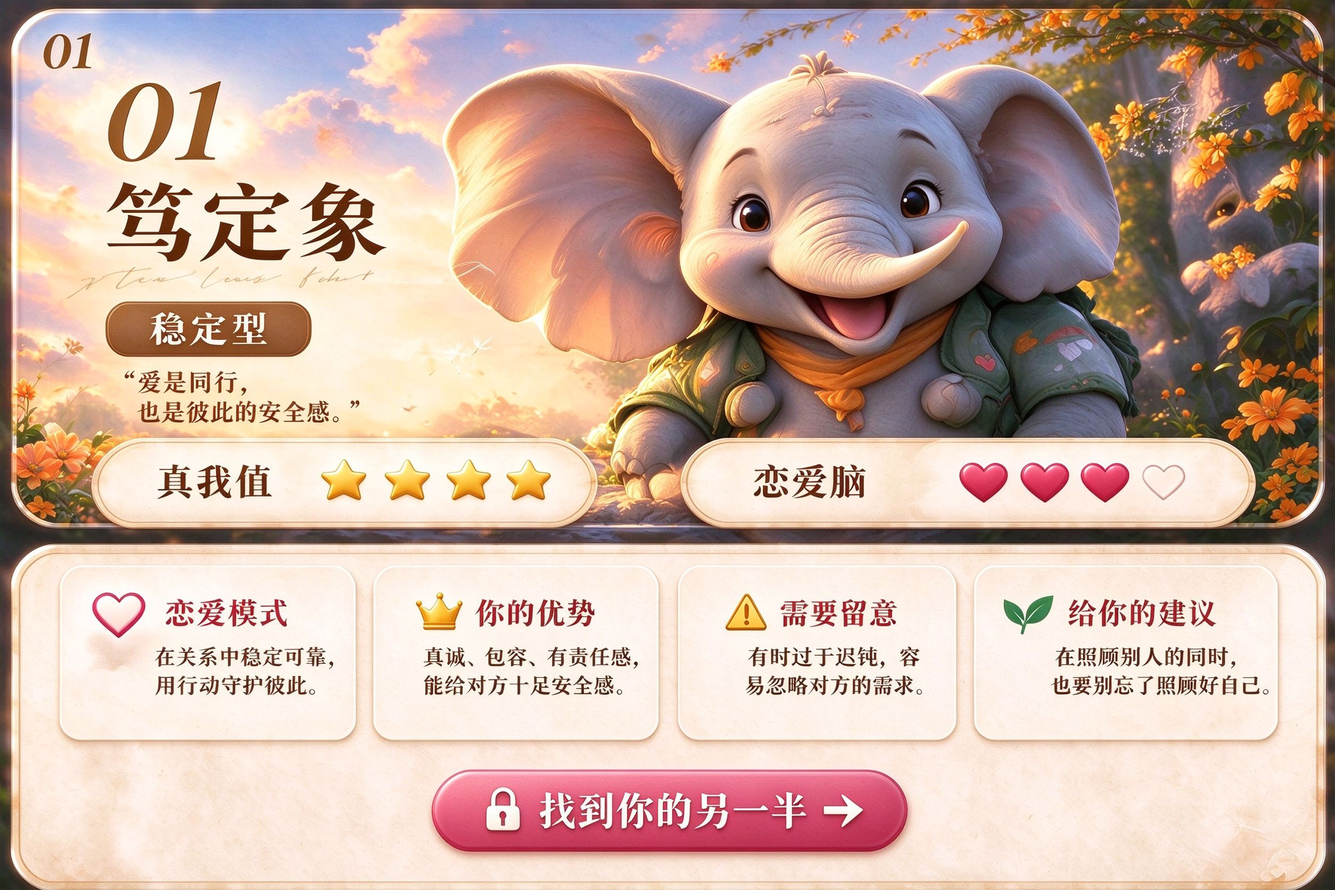
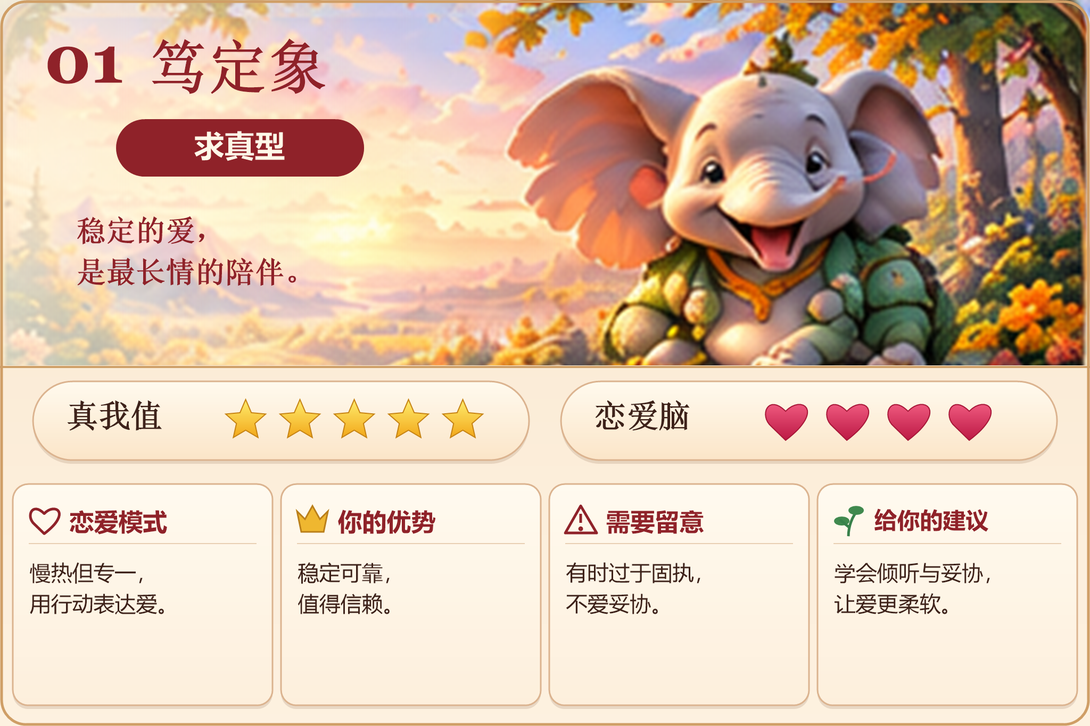
feat(results): update sixteen portrait cards and matching copy

diff --git a/apps/web/src/features/results/portraits.ts b/apps/web/src/features/results/portraits.ts
@@ -1,24 +1,24 @@
-// Supplied content only; no scoring or personality assignment.
+// User-approved portrait cards. Asset slugs are retained for URL compatibility.
+// No scoring or personality assignment is performed here.
 const rows = [
-['elephant','笃定象','稳定型','爱是同行，也是彼此的安全感。','在关系中稳定可靠，用行动守护彼此。','真诚、包容、有责任感，能给对方十足安全感。','有时过于迟钝，容易忽略对方的需求。','在照顾别人的同时，也要别忘了照顾好自己。'],
-['whale','自由鲸','独立型','爱是并肩，也是各自的辽阔。','在关系中保持独立，享受彼此的自由与空间。','随和、独立、有自我，能给关系带来新鲜感。','有时略显疏离，容易让对方感到不安。','在保持自我的同时，也要更贴近彼此。'],
-['dolphin','迎合豚','讨好型','爱是被爱，被爱，也是被懂得。','在关系中积极付出，渴望被需要和认可。','温柔、体贴、善解人意，能很好地照顾对方情绪。','容易过度迎合，忽略自己的感受。','学会表达真实的想法，让爱更平衡。'],
-['tiger','威心虎','掌控型','爱是吸引，也是彼此的欣赏。','在关系中主动引导，希望掌握节奏和方向。','自信、果断、有魅力，能给关系带来激情。','有时过于强势，容易让对方感到压力。','学会倾听与尊重，让爱更轻松自在。'],
-['dog','暖心狗','忠诚型','越在意，越想靠近。','容易关注对方的情绪和反馈，希望关系保持稳定温暖。','真诚、主动、有安全感，愿意用温暖照顾身边的人。','有时会因为过度在意，而忽略自己的感受。','在关心对方的同时，也别忘了照顾好自己的情绪节奏。'],
-['eagle','翱翔鹰','回避型','爱是距离，也是各自的天空。','在关系中保持距离，享受独立的空间。','理性、独立、有主见，能给关系带来清晰感。','有时略显疏离，容易让对方感到不安。','尝试多分享内心感受，让爱更靠近。'],
-['cat','粘你猫','讨好型','爱是依偎，也是细水长流。','在关系中渴望陪伴，享受亲密和被关注的感觉。','温柔、细腻、善于表达情感，能让关系充满温度。','有时过于依赖，容易让对方感到压力。','保持自我空间，让爱更松弛长久。'],
-['bird','藏忧鸟','敏感型','看似平静，内心却常常起风。','在关系中敏感细腻，容易感受到对方的情绪。','温柔、细腻、善于察觉，能敏锐感知对方的需要。','容易多想，让爱更容易陷入情绪波动。','学会信任与放松，让爱更坚定。'],
-['fox','热恋狐','浪漫型','爱是热烈，也是聪明的距离。','在关系中热情主动，享受心动和新鲜感。','热情、真诚、有魅力，能带来充满活力的恋爱体验。','有时害怕冲突，忽冷忽热的做法。','在表达热烈的同时，也让关系走向长久。'],
-['rabbit','慢热兔','温和型','慢慢靠近，才见真心的温度。','在关系中慢慢推进，需要时间建立信任。','真诚、细腻、重视承诺，能给关系稳稳的安全感。','有时过于慢热，容易错过一些可能性。','尝试放下过度的防备，给彼此更多机会。'],
-['deer','守护鹿','付出型','在关系中，带来平静与治愈。','在关系中照顾付出，关注对方的感受和成长。','善良、温柔、有耐心，能给予对方稳定的支持。','容易过度付出，忽略自己的需求。','在照顾别人的同时，也要照顾好自己。'],
-['koala','治愈考拉','温柔型','在关系中带来治愈和安稳。','在关系中温柔体贴，善于倾听和陪伴。','温和、包容、善解人意，能给予对方疗愈感。','有时过于忍让，容易委屈自己的感受。','适时表达自己的想法，让爱更平衡。'],
-['panda','探索熊猫','好奇型','好奇世界，也好奇你。','在关系中乐于探索，喜欢新鲜有趣的体验。','乐观、开朗、有创意，能让关系充满乐趣。','有时容易分心，新鲜感过去就冷淡。','在追求新鲜感的同时，也培养长期的陪伴感。'],
-['penguin','纯真企鹅','单纯型','简单的喜欢，也能很长久。','在关系中真诚直接，用行动表达爱意。','单纯、真诚、有担当，能给予对方安心的承诺。','有时过于理想化，容易被现实打磨。','保持纯真的同时，也学会处理复杂的问题。'],
-['ideal-deer','理想鹿','浪漫型','爱是心中充满浪漫想象，追求理想的灵魂伴侣。','在关系中充满浪漫想象，追求理想的灵魂伴侣。','浪漫、理想、有艺术感，能给关系带来诗意。','有时过于理想化，容易对现实失望。','在追求理想的同时，也接受对方的不完美。'],
-['hedgehog','坚韧刺猬','防御型','看似刺猬，其实很温柔。','在关系中保持警惕，需要时间卸下防备。','独立、坚强、有原则，能在关系中保护自己。','有时过于防备，容易推开真正关心你的人。','试着放下防备，让对的人走进来。'],
+["elephant","笃定象","求真型","稳定的爱，是最长情的陪伴。","慢热但专一，用行动表达爱。","稳定可靠，值得信赖。","有时过于固执，不爱妥协。","学会倾听与妥协，让爱更柔软。"],
+["whale","自由鲸","自在型","爱是辽阔的海，自由也能并肩同行。","享受独立，也珍惜真诚的陪伴。","开朗包容，给予彼此空间。","有时过于理性，容易忽略对方感受。","在自由中建立承诺，让爱更长久。"],
+["dolphin","迎合豚","讨好型","愿意为爱跳近，也希望被温柔回应。","容易照顾对方情绪，愿意为爱付出。","温柔体贴，善解人意。","有时过于迎合，忽略自己的需求。","在爱别人的同时，也别忘了爱自己。"],
+["tiger","藏心虎","隐匿型","心有万般柔软，只愿给对的人。","外表冷静，内心热烈，爱得深沉而谨慎。","忠诚专一，保护欲强。","有时过于防备，不易表达真实想法。","尝试敞开心扉，让对方走进你的世界。"],
+["dog","暖心狗","求真型","越在意，越想靠近。","容易关注对方的情绪和反馈，希望关系保持稳定温暖。","真诚、主动，愿意用温暖照顾身边的人。","有时会因为过度在意，而忽略自己的感受。","在关心对方的同时，也别忘了照顾自己的情绪节奏。"],
+["eagle","翱翔鹰","自在型","爱是并肩飞翔，而不是束缚翅膀。","渴望热烈的爱，也需要独立的空间。","勇敢果断，有追求和行动力。","有时过于自我，忽略细腻的情感需求。","在追求理想的同时，多照顾对方的感受。"],
+["cat","粘你猫","讨好型","想一直靠近你，做你的小黏糊。","容易亲密和依靠，爱是依偎的方式。","温柔细腻，善于表达爱意。","有时过度依赖，容易缺乏安全感。","建立自信，学会独立与信任。"],
+["bird","藏忧鸟","隐匿型","把心事藏在羽翼下，也依然向往阳光。","内心敏感，但不轻易表露，爱得小心而深沉。","温柔体贴，善于观察和理解。","容易胡思乱想，有时会逃避沟通。","学会表达真实感受，让爱更坦诚。"],
+["fox","苦行狼","求真型","爱得克制，也依然真诚。","保持距离，但一旦认定，便会坚定守护。","独立坚韧，有责任感。","容易过于理性，显得冷淡。","尝试多表达情感，让对方感受到你的在意。"],
+["rabbit","逍遥狮","自在型","爱是并肩看世界，但我也有自己的光。","享受自由，更珍惜高质量的相处空间。","自信从容，有领导力和魅力。","有时过于自我，容易忽略他人情绪。","在保留自我的同时，多一些耐心和倾听。"],
+["deer","隐忍龟","讨好型","慢慢靠近，才是最长情的守护。","谨慎慢热，习惯默默付出。","稳重踏实，有耐心和包容心。","有时过于压抑情绪，不善表达需求。","勇敢说出你的感受，让爱不再沉默。"],
+["koala","变色龙","隐匿型","我会适应你，也在寻找真实的自己。","善于调整自己迎合对方，但内心渴望亲近。","适应力强，善于理解与包容。","容易失去自我，不易表达真实想法。","找到真实的自己，在爱里也保持独立。"],
+["panda","扎心兔","求真型","渴望被爱，也害怕受伤。","渴望陪伴，但容易敏感和缺乏安全感。","善良真诚，感受力强。","容易因小事敏感，担心失去。","建立信任，相信自己值得被爱。"],
+["penguin","奉献牛","自在型","默默付出，是我表达爱的方式。","愿意为对方付出，重视承诺与责任。","踏实可靠，有责任感。","有时过度牺牲自己，忽略个人需求。","学会平衡付出与自我，爱别人也要爱自己。"],
+["ideal-deer","讨好羊","讨好型","想让你开心，所以我努力变好。","容易迎合对方，希望获得认可和接纳。","温柔善良，乐于付出。","有时会过度讨好，失去自我。","建立自信，在爱中保持真实的自己。"],
+["hedgehog","小刺猬","隐匿型","外表带刺，内心依然渴望被拥抱。","慢热且谨慎，习惯用距离保护自己。","敏感细腻，忠诚专一。","容易封闭内心，不愿表达情感。","试着放下防备，让爱慢慢靠近。"],
 ];
-const crops = [[14,8,1894,760],[0,0,1920,780],[0,0,1920,775],[160,48,1600,690],[0,0,1920,810],[0,0,1920,785],[0,0,1920,775],[0,0,1920,765],[0,0,1920,740],[28,12,1864,720],[0,0,1920,840],[0,0,1920,770],[0,0,1920,715],[14,14,1892,688],[0,0,1920,740],[0,0,1920,740]];
 export const portraits = rows.map(([slug,name,type,quote,mode,strength,caution,advice], index) => {
 const id=String(index+1).padStart(2,'0');
-return {id,name,type,quote,mode,strength,caution,advice,image:`/game/portraits/${id}-${slug}.png`,crop:crops[index]};
+return {id,name,type,quote,mode,strength,caution,advice,image:`/game/portraits/${id}-${slug}.png`,crop:[0,0,2048,687]};
 });

diff --git a/apps/web/src/features/results/ResultDesign.tsx b/apps/web/src/features/results/ResultDesign.tsx
@@ -4,18 +4,9 @@ import {portraits} from "./portraits";
 import styles from "./results.module.css";
 import type {FinalResult} from "./types";
 import {resolveRatingCopy} from "./rating-copy";
-// Original artwork coordinates, on the supplied 1920 × 1280 reference canvas.
-// Only these two rating panels are replaced when an authoritative result exists.
-const ratingPanels=[
- [[130,632,733,128],[979,632,830,128]],[[131,636,750,126],[991,636,842,126]],
- [[120,645,750,120],[980,645,860,120]],[[260,614,655,113],[994,614,710,113]],
- [[97,677,820,131],[1016,677,838,131]],[[109,649,761,125],[976,649,856,125]],
- [[124,637,762,126],[1010,637,834,126]],[[96,655,716,107],[1360,655,498,107]],
- [[118,606,760,123],[972,606,862,123]],[[139,603,769,122],[984,603,821,122]],
- [[117,688,766,122],[982,688,846,122]],[[114,637,627,118],[1006,637,832,118]],
- [[114,576,775,117],[984,576,857,117]],[[117,578,778,117],[996,578,834,117]],
- [[122,600,768,124],[980,600,848,124]],[[112,609,778,129],[990,609,859,129]],
-];
+// Shared rating bounds on the approved 2048 × 1365 portrait cards.
+// Official metrics cover the decorative ratings embedded in the artwork.
+const ratingPanels=[[62,717,932,148],[1054,717,932,148]];
 const sections=[{key:'mode',title:'恋爱模式'},{key:'strength',title:'你的优势'},{key:'caution',title:'需要留意'},{key:'advice',title:'给你的建议'}] as const;
 export function ResultDesign({result}:{result?:FinalResult}={}){
  const [index,setIndex]=useState(0),[failed,setFailed]=useState(false),[retry,setRetry]=useState(0);
@@ -23,8 +14,8 @@ export function ResultDesign({result}:{result?:FinalResult}={}){
  const portrait=portraits[result?Number(result.portrait_id)-1:index];
  function select(next:number){setIndex((next+16)%16);setFailed(false);}
  function artwork(){return <figure className={styles.originalPoster}>
- <img key={`${portrait.id}-${retry}`} src={portrait.image} width={2508} height={1672} alt={`${portrait.name}，${portrait.type}。${portrait.quote}`} onError={()=>setFailed(true)} onLoad={()=>setFailed(false)}/>
- {result?.metrics&&(['authenticity','love'] as const).map((key,i)=>{const [x,y,w,h]=ratingPanels[Number(portrait.id)-1][i];const metric=result.metrics![key]!;return <div key={key} className={styles.originalRating} style={{left:`${x/1920*100}%`,top:`${y/1280*100}%`,width:`${w/1920*100}%`,height:`${h/1280*100}%`}} aria-label={`${i===0?'真我值':'恋爱脑'}：${metric.score}分，${metric.stars}星，共5星`}><strong>{i===0?'真我值':'恋爱脑'}</strong><span className={i===0?styles.goldStars:styles.pinkHearts} aria-hidden="true">{Array.from({length:5},(_,n)=><i key={n} style={{opacity:n<metric.stars?1:.18}}>{i===0?'★':'♥'}</i>)}</span></div>;})}
+ <img key={`${portrait.id}-${retry}`} src={portrait.image} width={2048} height={1365} alt={`${portrait.name}，${portrait.type}。${portrait.quote}`} onError={()=>setFailed(true)} onLoad={()=>setFailed(false)}/>
+ {result?.metrics&&(['authenticity','love'] as const).map((key,i)=>{const [x,y,w,h]=ratingPanels[i];const metric=result.metrics![key]!;return <div key={key} className={styles.originalRating} style={{left:`${x/2048*100}%`,top:`${y/1365*100}%`,width:`${w/2048*100}%`,height:`${h/1365*100}%`}} aria-label={`${i===0?'真我值':'恋爱脑'}：${metric.score}分，${metric.stars}星，共5星`}><strong>{i===0?'真我值':'恋爱脑'}</strong><span className={i===0?styles.goldStars:styles.pinkHearts} aria-hidden="true">{Array.from({length:5},(_,n)=><i key={n} style={{opacity:n<metric.stars?1:.18}}>{i===0?'★':'♥'}</i>)}</span></div>;})}
  {failed&&<div className={styles.error} role="alert"><p>画像暂时未能加载</p><button onClick={()=>{setFailed(false);setRetry(v=>v+1);}}>重新加载</button></div>}
  </figure>;}
  return <main className={styles.page}>
